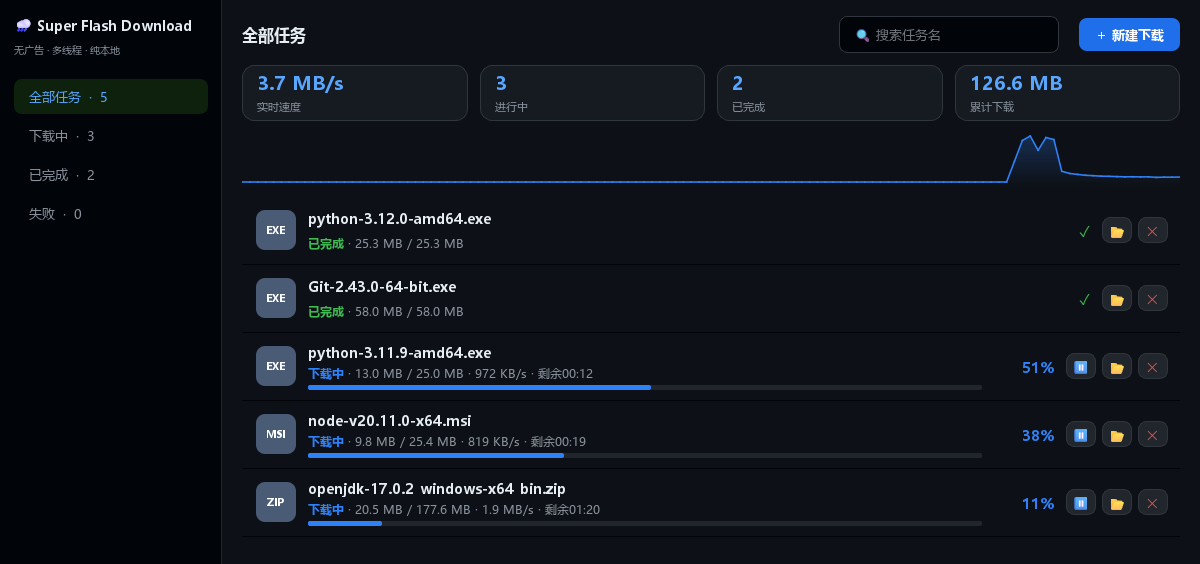
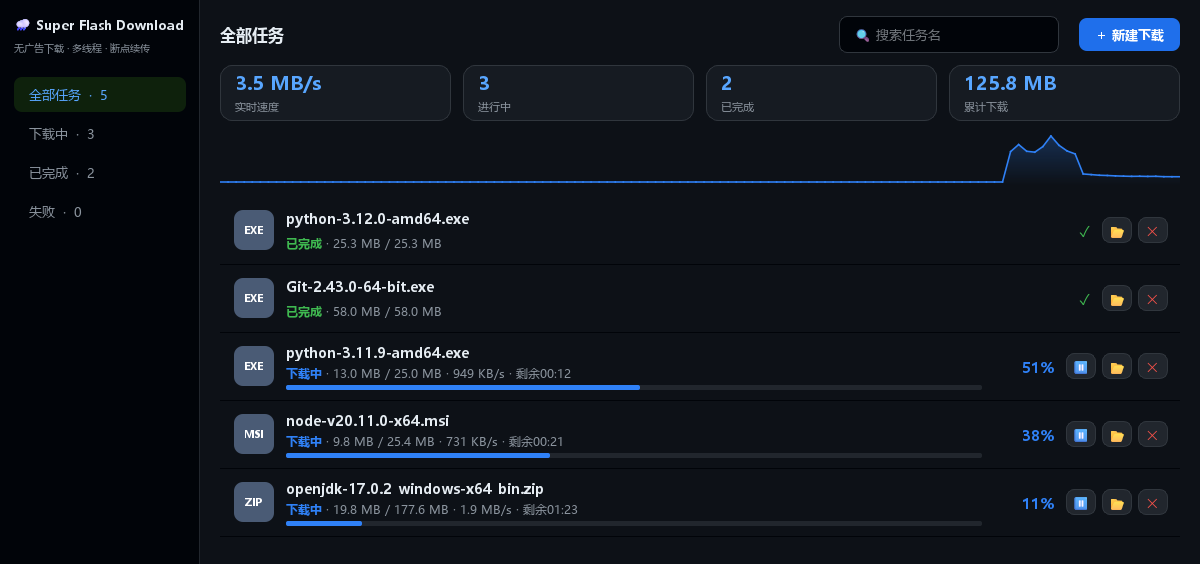
fix(ui): take the ElidedLabel approach for the sidebar brand
Replaces the previous "shrink the font + wrap to two lines" patch. The
ElidedLabel subclass (remember full text, re-elide on resize/show) is the
right shape: it degrades to an ellipsis instead of hard-clipping at any
font, DPI or window width, and keeps the full name in the tooltip.

Sidebar stays at 200px (the value chosen when this was first fixed) and the
brand line drops to 13px: at 14px the string measures 174px against the
172px content width and elides by two pixels - measured via QFontMetrics,
not by eyeballing a screenshot. At 13px it measures 166px, so the default
window shows the full wordmark and the ellipsis only appears when the user
makes the window narrower than that.

Subtitle also states what the app does (无广告下载 · 多线程 · 断点续传)
instead of repeating the product name.

diff --git a/xygui.py b/xygui.py
@@ -64,7 +64,7 @@ STYLE = """
 QWidget { background: #0d1117; color: #e6edf3; font-size: 13px; }
 #root { background: #0d1117; }
 #sidebar { background: #010409; border-right: 1px solid #21262d; }
-#brand { font-size: 14px; font-weight: 800; color: #e6edf3; background: transparent; }
+#brand { font-size: 13px; font-weight: 800; color: #e6edf3; background: transparent; }
 #brandSub { color: #8b949e; font-size: 10px; background: transparent; }
 QListWidget#nav { background: transparent; border: none; outline: none; padding: 4px 0; }
 QListWidget#nav::item { color: #8b949e; border-radius: 8px; padding: 9px 12px; margin: 2px 0; }
@@ -168,6 +168,41 @@ STATE_META = {
     "error": (BAD, "失败"),
     "interrupted": (WARN, "已中断"),
 }
+
+
+class ElidedLabel(QLabel):
+    """宽度不够时自动加省略号的 QLabel。
+
+    普通 QLabel 超宽是硬裁剪：文字直接被切掉（"Super Flash Download" 变 "Super Flash Dou"），
+    侧栏这类固定窄容器里非常难看。这里记住全文、按当前宽度做 elidedText，
+    resize / show 时重算，任何字体或 DPI 下都不会再硬切。悬停可看全名。
+    """
+
+    def __init__(self, text: str, **kw):
+        super().__init__(text, **kw)
+        self._full = text
+        self.setToolTip(text)
+
+    def setText(self, text: str) -> None:      # type: ignore[override]
+        self._full = text
+        self.setToolTip(text)
+        self._refresh()
+
+    def showEvent(self, ev) -> None:
+        super().showEvent(ev)
+        self._refresh()
+
+    def resizeEvent(self, ev) -> None:
+        super().resizeEvent(ev)
+        self._refresh()
+
+    def _refresh(self) -> None:
+        w = self.width()
+        if w <= 0 or not self._full:
+            return
+        elided = self.fontMetrics().elidedText(self._full, Qt.ElideRight, w)
+        if super().text() != elided:
+            super().setText(elided)
 
 
 class SpeedSpark(QWidget):
@@ -471,14 +506,12 @@ class MainWindow(QMainWindow):
         h.setSpacing(0)
 
         side = QFrame(objectName="sidebar")
-        side.setFixedWidth(222)
+        side.setFixedWidth(200)
         sv = QVBoxLayout(side)
         sv.setContentsMargins(14, 16, 14, 14)
         sv.setSpacing(8)
-        brand = QLabel("🌧 Super Flash Download", objectName="brand")
-        brand.setWordWrap(True)
-        sv.addWidget(brand)
-        sv.addWidget(QLabel("无广告 · 多线程 · 纯本地", objectName="brandSub"))
+        sv.addWidget(ElidedLabel("🌧 Super Flash Download", objectName="brand"))
+        sv.addWidget(ElidedLabel("无广告下载 · 多线程 · 断点续传", objectName="brandSub"))
         sv.addSpacing(8)
         self.nav = QListWidget(objectName="nav")
         for key, label in self.NAV:
